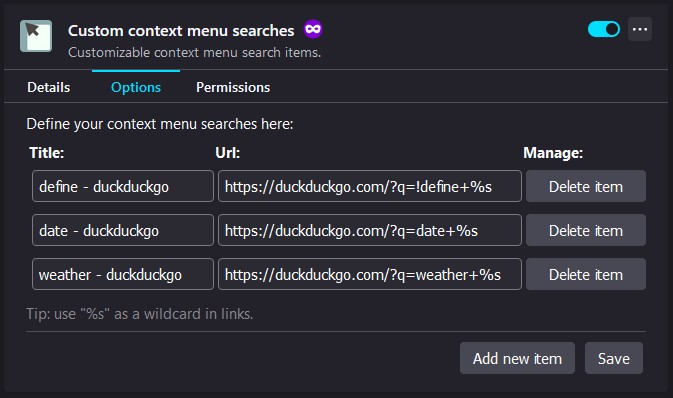
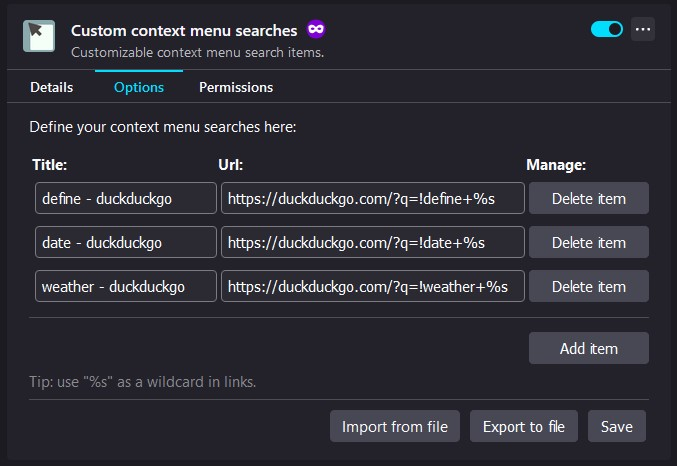
updated readme to reflect new features

diff --git a/README.md b/README.md
@@ -31,7 +31,17 @@ In order to create a context menu item, one has to press on "Add new item" butto
 One can modify defined context menu items by directly modifying previously entered values.
 
 #### Delete items:
-In order to delete context menu item, one has to press on "Delete item" button next to item that should be deleted. 
+In order to delete context menu item, one has to press on "Delete item" button next to item that should be deleted.
+
+#### Export items:
+It is also possible to export defined context menu items to a .json file. Note that the export functionality exports directly from the storage meaning that any unsaved change will not be reflected in the exported file. Items are exported to a file by utilizing the "Export to file" button on the extensions options page.
+
+#### Import items:
+Context menu items can also be directly imported from a .json file. Doing so will override all previously defined items with what is defined in the file. The context menu items are defined in the .json file by following format:
+
+`{"context_menu_items": [{"title": "Example 1","url": "www.example.com/?search="},{"title": "Example 2","url": "www.example.com/?search="}]}`  
+
+Note that the .json file size are restricted to 10 000 bytes meaning it is possible to import about 100 context menu items (depending on the length of the titles and urls). Items are imported by utilizing the "Import from file" button on the extensions options page and selecting a file.
 
 ## Installation
 Available for Firefox via: https://addons.mozilla.org/en-US/firefox/addon/custom-context-menu-searches/
